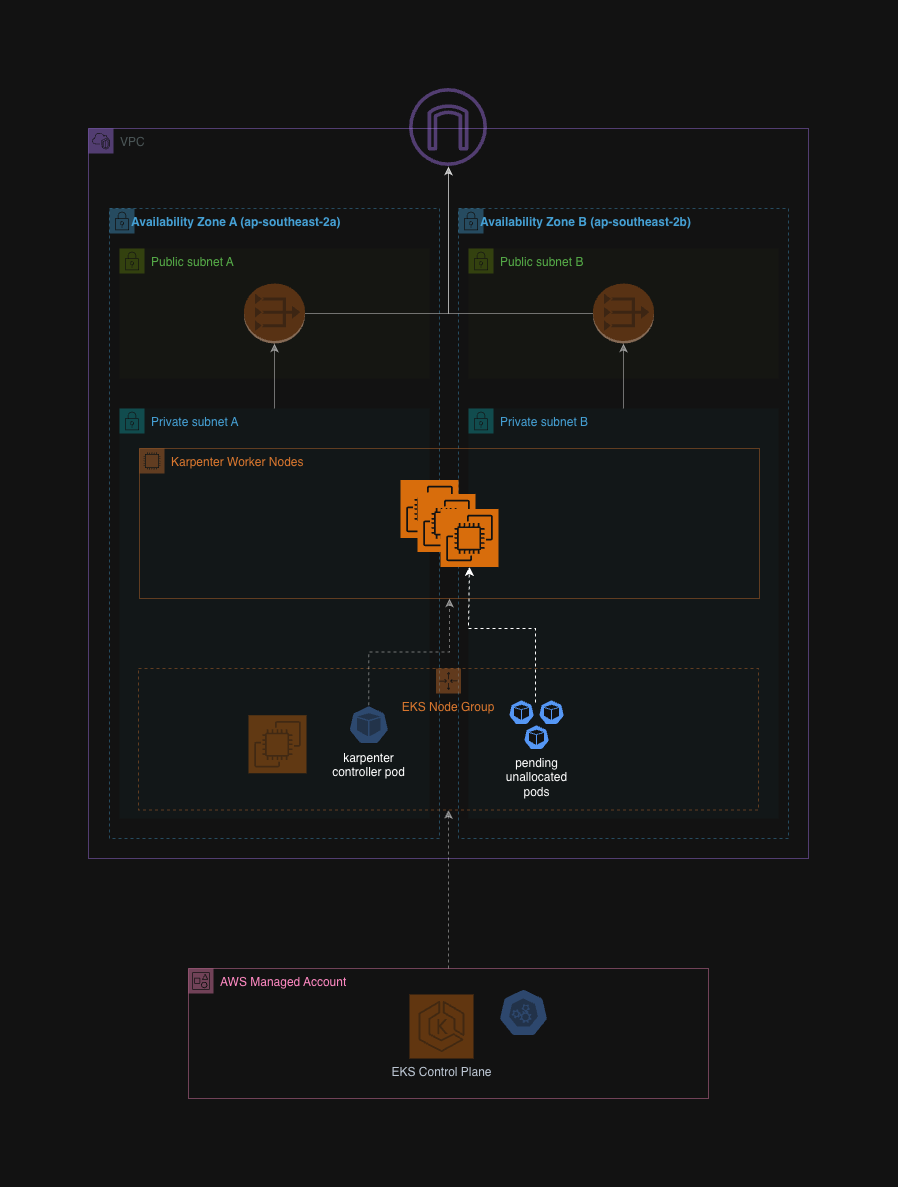
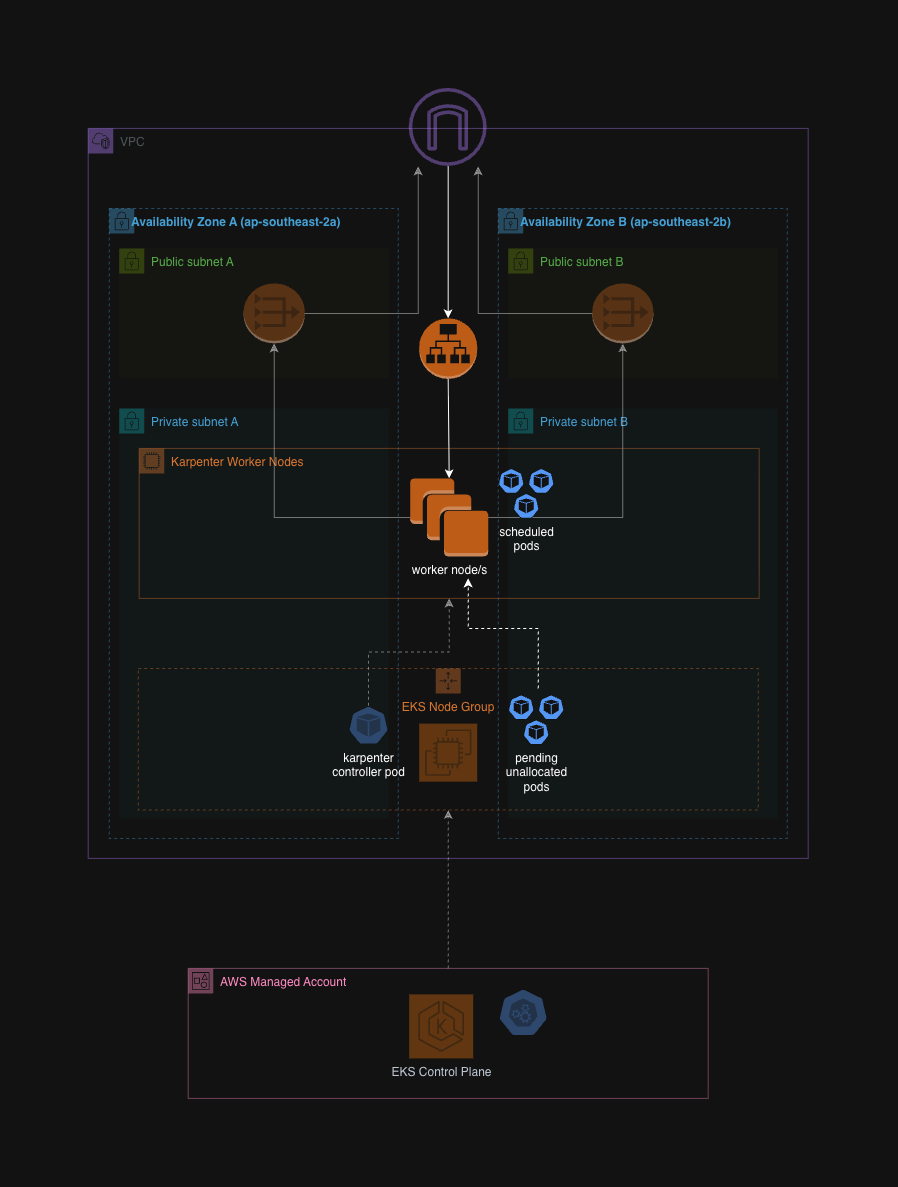
refactor readme and diagrams

diff --git a/README.md b/README.md
@@ -8,20 +8,22 @@ Note that this is more infrastructure than an app this size actually needs, it c
 
 ### /infra/cfn
 
-Four stacks, deployed in order by `deploy-infra-cfn.yaml`.
+CloudFormation stacks that deploy our AWS platform.
+
+![cfn infra](diagrams/cfn.png)
 
 #### `networking.yaml`
 
-- VPC
-- Public + private subnets
-- Internet Gateway
-- NAT gateway(s)
-- Route tables
+- **VPC**
+- **Public + Private Subnets**
+- **Internet Gateway**
+- **NAT Gateway(s)**
+- **Route Tables**
 
 <details>
 <summary><b>Diagram</b></summary>
 
-<img src="diagrams/networking.png" width="700" alt="networking stack">
+<img src="diagrams/networking.png" width="640" alt="networking stack">
 
 </details>
 
@@ -29,19 +31,19 @@ Four stacks, deployed in order by `deploy-infra-cfn.yaml`.
 
 #### `eks.yaml`
 
-- EksClusterRole: lets the EKS control plane call other AWS APIs on your behalf
-- NodeInstanceRole: lets worker nodes register with the cluster, use the VPC CNI, pull images from ECR, and be managed via SSM
-- EKS cluster: the AWS managed control plain that runs and coordinates the cluster, targets all subnets in our VPC
-- Managed node group: ASG of EC2 nodes that run the pods, placed in the private subnets
-- OIDC provider: enables IRSA, so a pod's service account can assume its own specific IAM role instead of inheriting the whole node's shared role
-- ACM certificate: requested and DNS-validated upfront so that it's ready for when ingress needs it later on in deployment
+- **EksClusterRole:** Lets the EKS control plane call other AWS APIs on your behalf
+- **NodeInstanceRole:** Lets worker nodes register with the cluster, use the VPC CNI, pull images from ECR, and be managed via SSM
+- **EKS Cluster:** The AWS managed control plane that runs and coordinates the cluster, targets all subnets in our VPC
+- **Managed Node Group:** ASG of EC2 nodes that run the pods, placed in the private subnets
+- **OIDC Provider:** Enables IRSA, so a pod's service account can assume its own specific IAM role instead of inheriting the whole node's shared role
+- **ACM Certificate:** Requested and DNS-validated upfront so that it's ready for when Ingress needs it later on in deployment
 
 <details>
 <summary><b>Diagram</b></summary>
 
-*note that our node group has a 'DesiredSize' of 1, so only 1 node is actually deployed in this ASG*
+<p><em>Note that our node group has a 'DesiredSize' of 1, so only 1 node is actually deployed in this ASG</p></em>
 
-<img src="diagrams/eks.png" width="700" alt="eks stack">
+<img src="diagrams/eks.png" width="640" alt="eks stack">
 
 </details>
 
@@ -49,55 +51,45 @@ Four stacks, deployed in order by `deploy-infra-cfn.yaml`.
 
 #### `karpenter.yaml`
 
-- Karpenter node IAM role: role given to ec2 nodes karpenter launches so they can join the cluster
-- Karpenter controller IAM policy + role: role given to karpenter controller pods such that they can create and destroy ec2 nodes, can only be assumed via IRSA by pods with karpenter service account
-- SQS interruption queue: receives spot interruption, instance health, and rebalance events so Karpenter can react before a node disappears
-- EventBridge rules: forwards AWS events into the interruption queue
-- Node security group: controls what traffic is allowed to/from Karpenter provisioned nodes and the control plane
+- **Karpenter Node IAM Role:** Role given to EC2 nodes Karpenter launches so they can join the cluster
+- **Karpenter Controller IAM Policy + Role:** Role given to Karpenter controller pods such that they can create and destroy EC2 nodes, can only be assumed via IRSA by pods with Karpenter service account
+- **SQS Interruption Queue:** Receives spot interruption, instance health, and rebalance events so Karpenter can react before a node disappears
+- **EventBridge Rules:** Forwards AWS events into the interruption queue
+- **Node Security Group:** Controls what traffic is allowed to/from Karpenter provisioned nodes and the control plane
 
 <br>
 
 #### `cognito.yaml`
 
-- Cognito user pool: directory of users including accounts, passwords, verified emails, federated identities
-- Google identity provider: lets users log in with an existing Google account instead of creating a new password. This is associated with our user pool
-- User pool domain: hosted UI for login
-- User pool client: config that strings together our domain, user pool, and identity providers. Will be used by our alb
+- **Cognito User Pool:** Directory of users including accounts, passwords, verified emails, federated identities
+- **Google Identity Provider:** Lets users log in with an existing Google account instead of creating a new password. This is associated with our user pool
+- **User Pool Domain:** Hosted UI for login
+- **User Pool Client:** Config that strings together our domain, user pool, and identity providers. Will be used by our ALB
 
 ---
 
 ### /infra/helm
 
-Helm charts, deployed in order by `deploy-infra-*.yaml`.
+Helm charts, deploy the Kubernetes workloads on top of our AWS infrastructure.
 
-#### `karpenter controller`
-
-This chart is not defined by us, instead sourced from a public aws chart.
-
-Deploys the karpenter autoscaling software onto our eks cluster.
-
-<details>
-<summary><b>Diagram</b></summary>
-
-<img src="diagrams/karpenter-controller.png" width="700" alt="karpenter controller helm">
-
-</details>
-
-<br>
+![helm infra](diagrams/helm.png)
 
 #### `karpenter/`
 
-Config that tells our karpenter controller what it is allowed to launch.
+Config that tells our Karpenter controller what it is allowed to launch.
 
-- ec2nodeclass: environment karpenter nodes are built into. Identity, network placement, and the base image
-- nodepool: instance specs for karpenter nodes. Shape of instance (arch, pricing model, size category) and how much of it the pool is allowed to produce
+- **EC2NodeClass:** Environment Karpenter nodes are built into. Identity, network placement, and the base image
+- **NodePool:** Instance specs for Karpenter nodes. Shape of instance (arch, pricing model, size category) and how much of it the pool is allowed to produce
+
+[!NOTE]
+Requires the **Karpenter controller** public AWS Helm chart to be deployed onto our cluster before this configuration does anything.
 
 <details>
 <summary><b>Diagram</b></summary>
 
-*provides the instructions/config that enable karpenter worker nodes to be created*
+<p><em>Provides the instructions/config that enable Karpenter worker nodes to be created</p></em>
 
-<img src="diagrams/karpenter.png" width="700" alt="karpenter helm">
+<img src="diagrams/karpenter.png" width="640" alt="karpenter helm">
 
 </details>
 
@@ -105,16 +97,19 @@ Config that tells our karpenter controller what it is allowed to launch.
 
 #### `app/`
 
-Deploys the actual application onto the infra (with the exception of the ingress which itself deploys new infra).
+Deploys the actual application onto the infra (with the exception of the Ingress which itself deploys new infra).
 
-- Backend/Redis: replica pods (2 by default) running a container image, load-balanced internally via a ClusterIP Service
-- Frontend: the same pattern (replica pods + ClusterIP Service), plus an Ingress in front of it. provisions an ALB, attaches TLS + Cognito auth, and makes our cluster reachable from the internet
+- **Backend/Redis:** Replica pods (2 by default) running a container image, load-balanced internally via a ClusterIP Service
+- **Frontend:** The same pattern (replica pods + ClusterIP Service), plus an Ingress in front of it. Provisions an ALB, attaches TLS + Cognito auth, and makes our cluster reachable from the internet
+
+[!NOTE]
+For our frontend Ingress to function here we first need to deploy the **Load Balancer Controller** public AWS Helm chart along with its associated IAM resources.
 
 <details>
 <summary><b>Diagram</b></summary>
 
-*app pods will trigger karpenter to create worker nodes where there are not sufficient resources for pending pods*
+<p><em>App pods will trigger Karpenter to create worker nodes where there are not sufficient resources for pending pods</p></em>
 
-<img src="diagrams/app.png" width="700" alt="app helm">
+<img src="diagrams/app.png" width="640" alt="app helm">
 
 </details>
